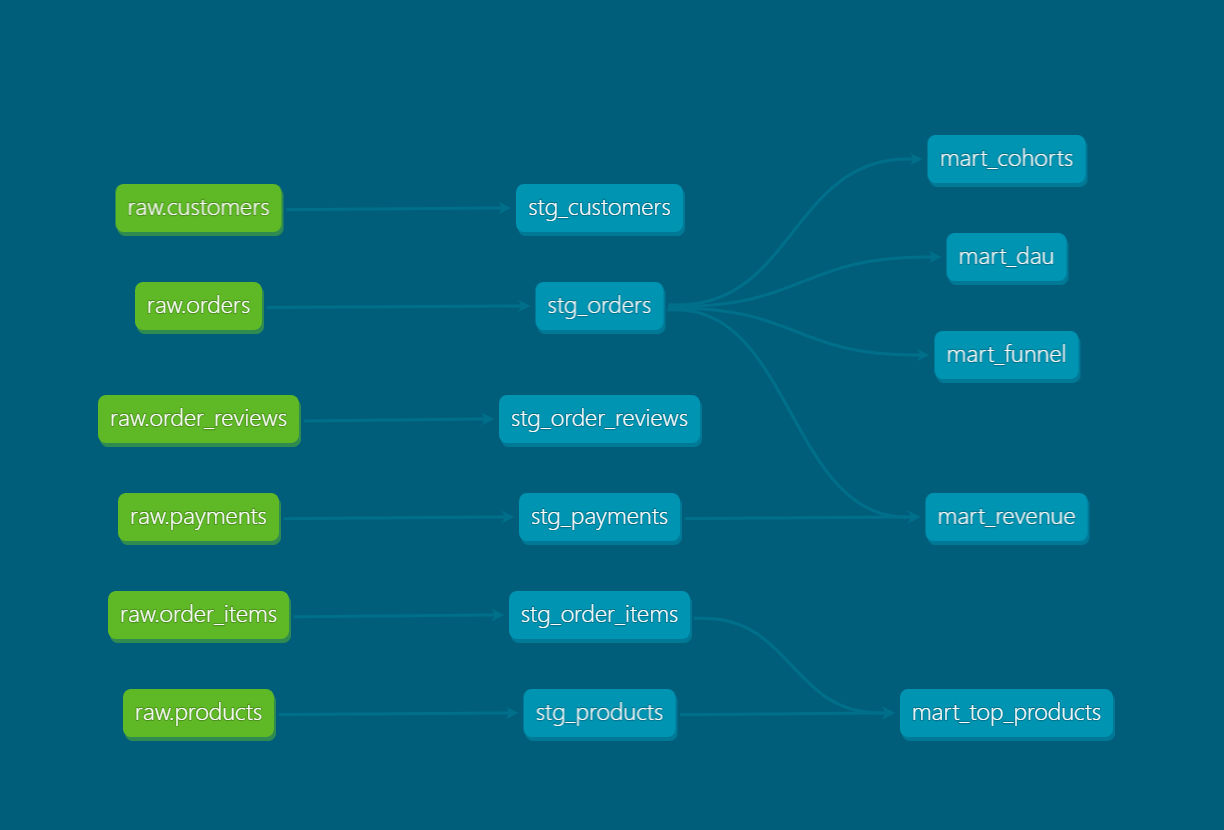
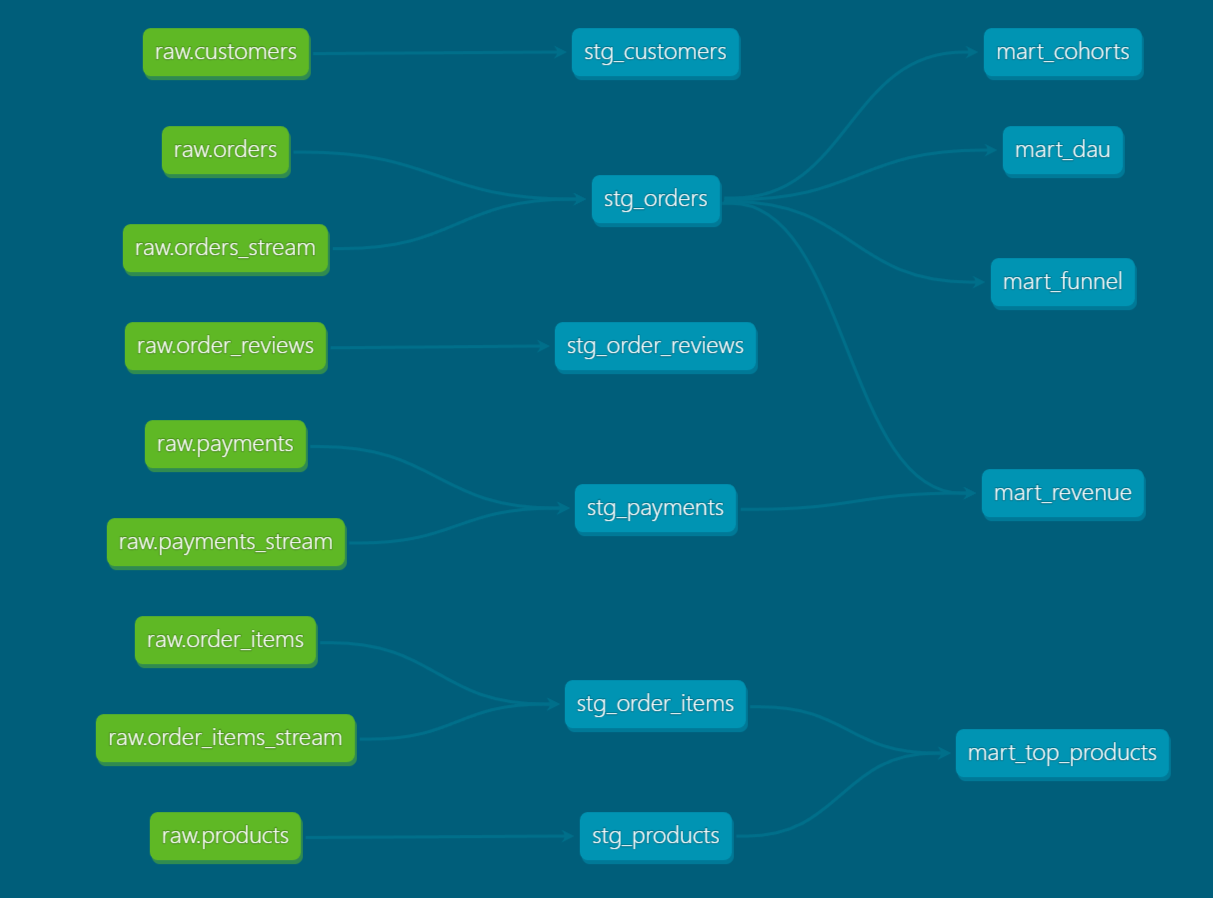
feat: update stg models with stream sources

diff --git a/README.md b/README.md
@@ -5,18 +5,41 @@
 ## Стек
 - **ClickHouse** — аналитическая база данных
 - **dbt** — трансформации и тестирование данных
-- **Apache Kafka** — потоковая передача данных *(в разработке)*
-- **PySpark** — обработка стрима *(в разработке)*
+- **Apache Kafka** — потоковая передача данных
+- **PySpark** — обработка стрима
 - **Docker** — контейнеризация окружения
-- **Python** — загрузка сырых данных
+- **Python** — загрузка исторических данных и генерация стрима
 
 ## Архитектура
+
+### Batch (исторические данные)
+CSV (Olist dataset) → Python → ClickHouse raw → dbt → staging → marts
+
+### Stream (живые данные)
+Producer (Docker) → Kafka → Spark Streaming → ClickHouse raw_stream → dbt → marts
+
+## Структура проекта
 ```
-raw (CSV → ClickHouse)
-    ↓
-staging (очистка, типизация, переименование)
-    ↓
-marts (бизнес-метрики)
+olist-analytics/
+├── docker-compose.yml        # ClickHouse + Kafka + Spark + Producer
+├── .env.example              # Шаблон переменных окружения
+├── requirements.txt          # Python зависимости
+├── scripts/
+│   ├── utils.py              # ClickHouse клиент
+│   ├── init_db.py            # Создание баз данных
+│   ├── init_tables.py        # Создание таблиц
+│   └── load_raw.py           # Загрузка CSV в ClickHouse
+├── kafka/
+│   ├── Dockerfile            # Образ для producer
+│   └── producer.py           # Генератор событий → Kafka
+├── spark/
+│   └── consumer.py           # Spark Streaming: Kafka → ClickHouse
+├── olist_dbt/
+│   └── models/
+│       ├── staging/          # Очистка и типизация данных
+│       └── marts/            # Бизнес-метрики
+└── docs/
+    └── graph.png             # dbt lineage graph
 ```
 
 [Lineage Graph]
@@ -32,41 +55,58 @@ marts (бизнес-метрики)
 | mart_funnel | Воронка заказов по этапам |
 | mart_top_products | Топ категорий товаров по выручке |
 
-## Быстрый старт
+## Запуск проекта
 
-1. Клонировать репозиторий
+**1. Клонировать репозиторий**
 ```bash
-   git clone https://github.com/kiritango/olist-analytics.git
-   cd olist-analytics
+git clone https://github.com/kiritango/olist-analytics.git
+cd olist-analytics
 ```
 
-2. Создать .env из шаблона
+**2. Создать .env из шаблона**
 ```bash
-   cp .env.example .env
+cp .env.example .env
+# заполнить значения
 ```
 
-3. Поднять окружение
+**3. Поднять окружение**
 ```bash
-   docker-compose up -d
+docker-compose up -d
 ```
 
-4. Установить зависимости
+Producer запустится автоматически и начнёт генерировать заказы в Kafka.
+
+**4. Установить зависимости**
 ```bash
-   python -m venv .venv
-   .venv\Scripts\activate
-   pip install -r requirements.txt
+python -m venv .venv
+.venv\Scripts\activate
+pip install -r requirements.txt
 ```
 
-5. Загрузить данные
+**5. Загрузить исторические данные**
 ```bash
-   python scripts/init_db.py
-   python scripts/init_tables.py
-   python scripts/load_raw.py
+python scripts/init_db.py
+python scripts/init_tables.py
+python scripts/load_raw.py
 ```
 
-6. Запустить dbt
+**6. Запустить Spark Streaming**
 ```bash
-   cd olist_dbt
-   dbt run
-   dbt test
+docker exec -it olist_spark /opt/spark/bin/spark-submit \
+  --packages org.apache.spark:spark-sql-kafka-0-10_2.13:4.0.0,com.github.housepower:clickhouse-native-jdbc-shaded:2.7.1 \
+  /opt/spark-apps/consumer.py
+```
+
+Проверить что данные поступают:
+```sql
+SELECT count() FROM raw.orders_stream;
+SELECT count() FROM raw.order_items_stream;
+SELECT count() FROM raw.payments_stream;
+```
+
+**7. Запустить dbt**
+```bash
+cd olist_dbt
+dbt run
+dbt test
 ```
